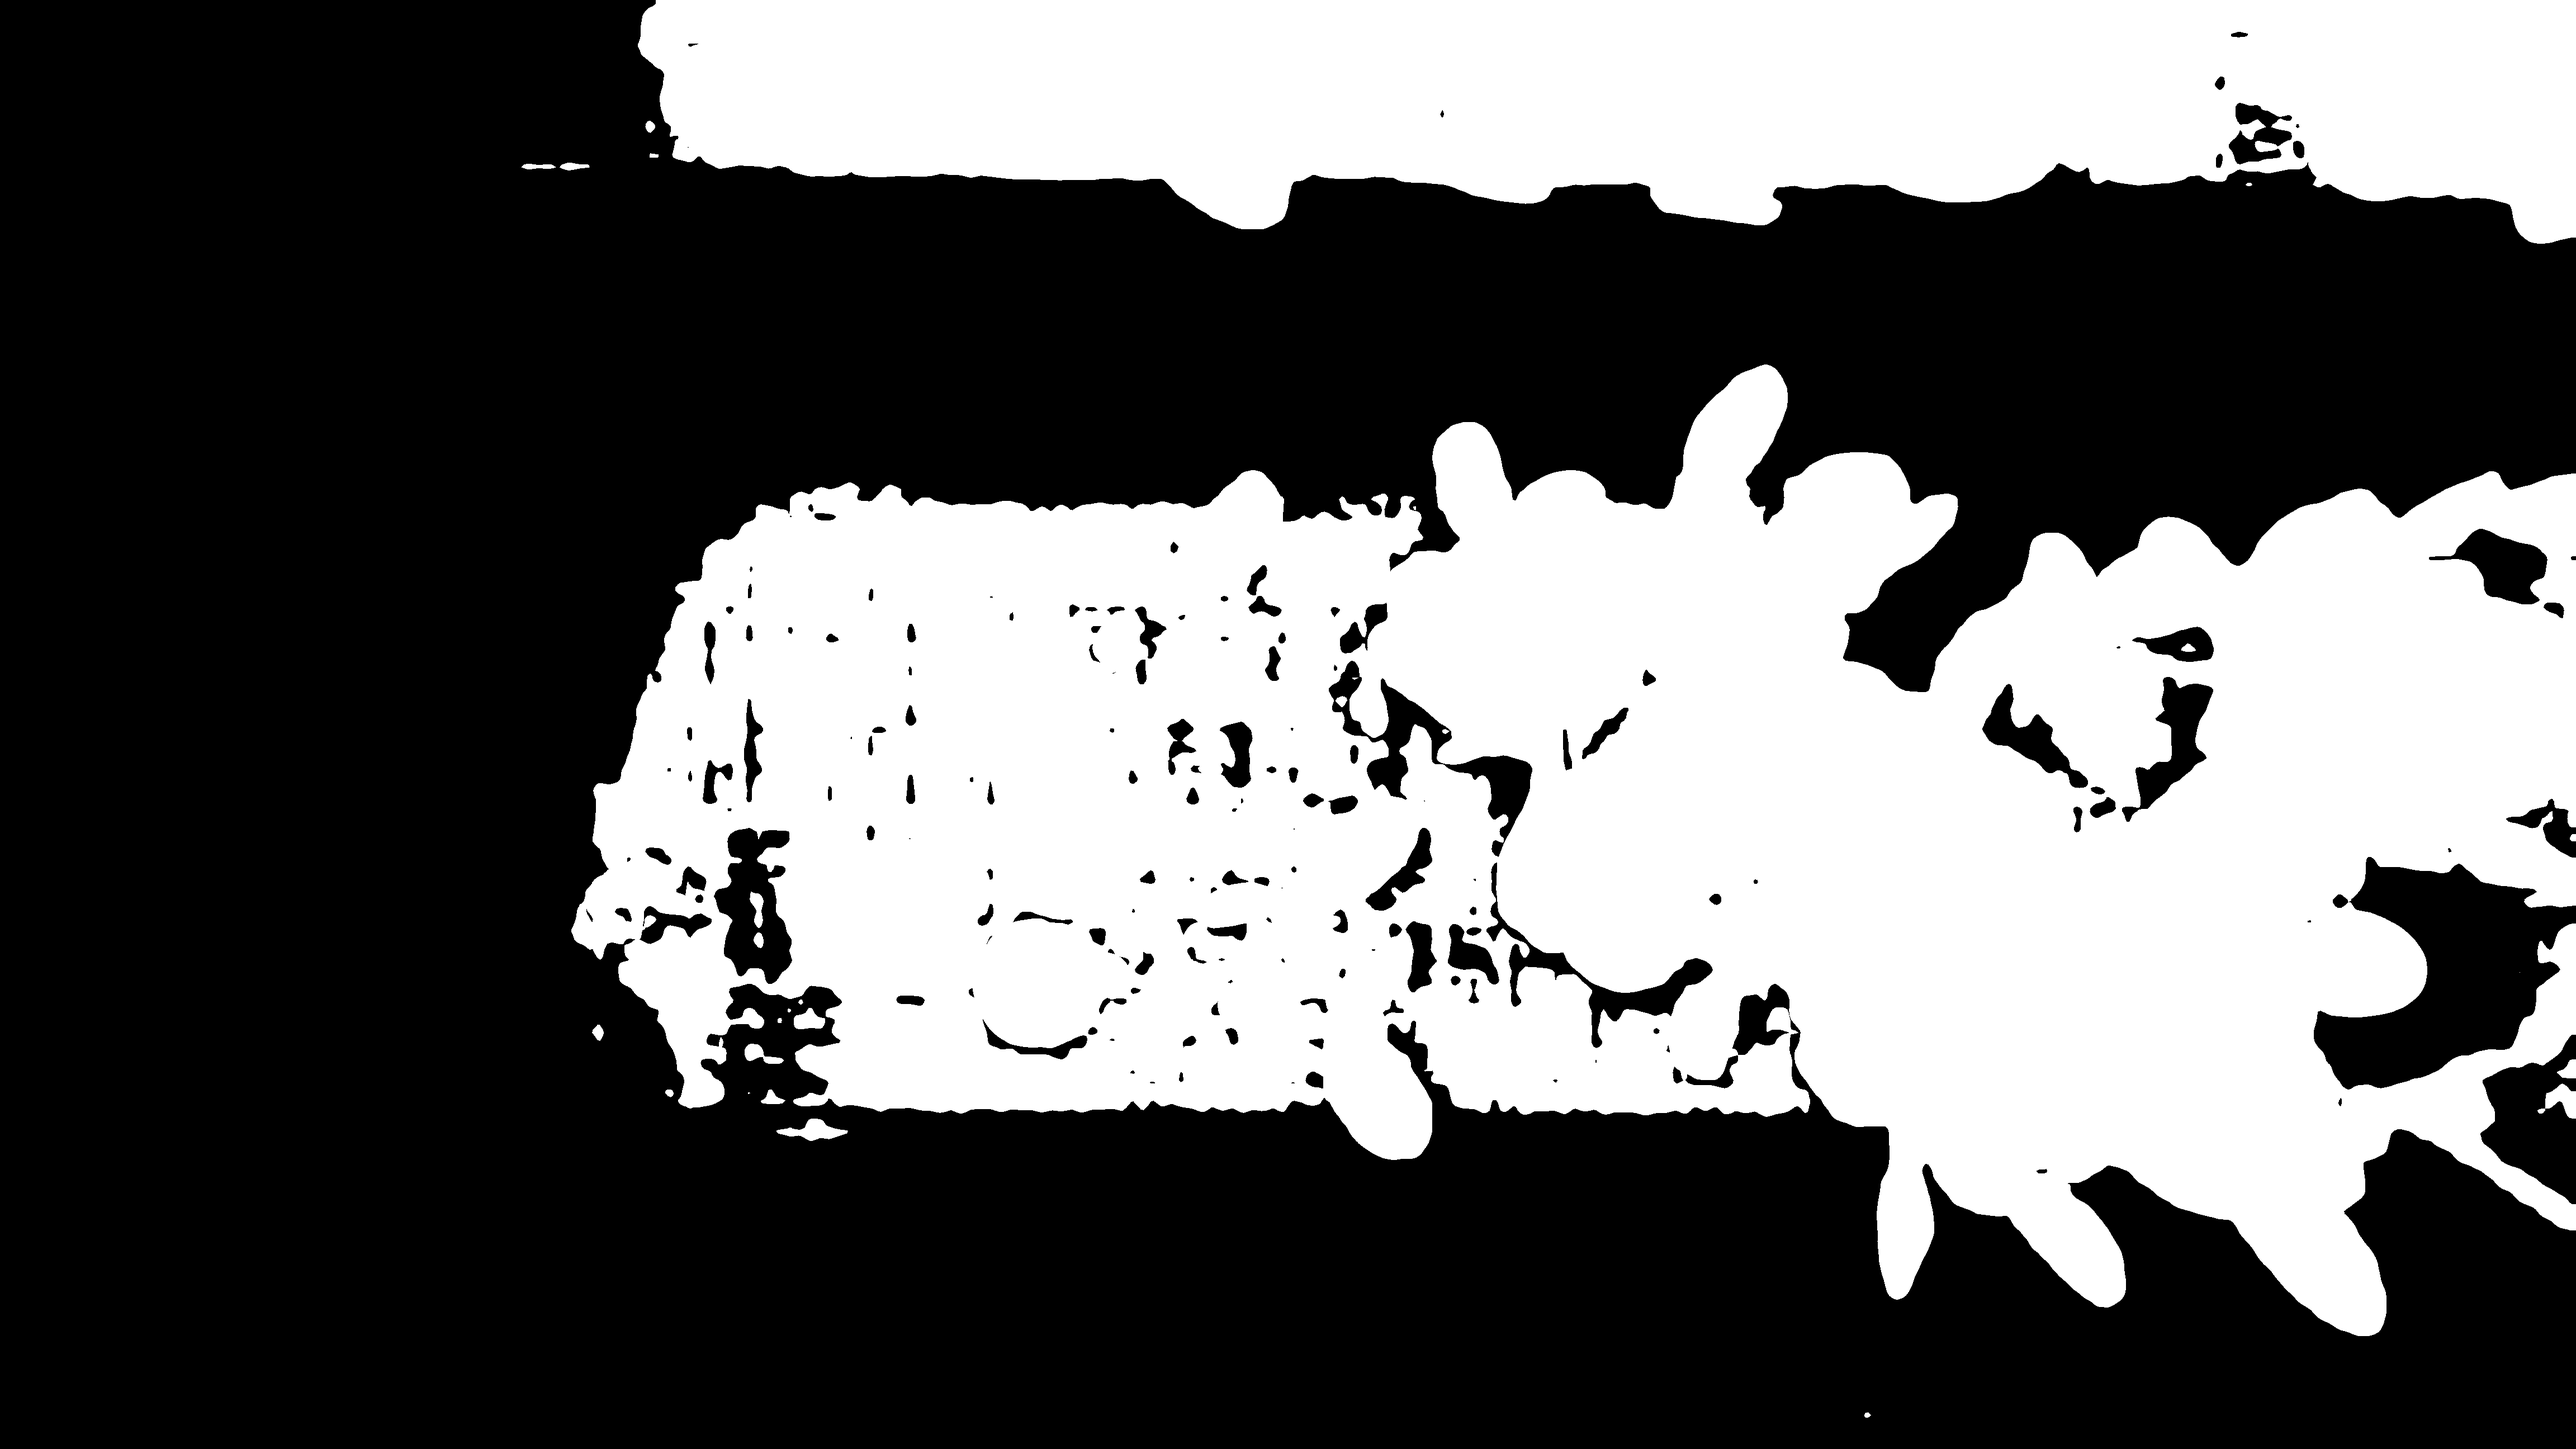
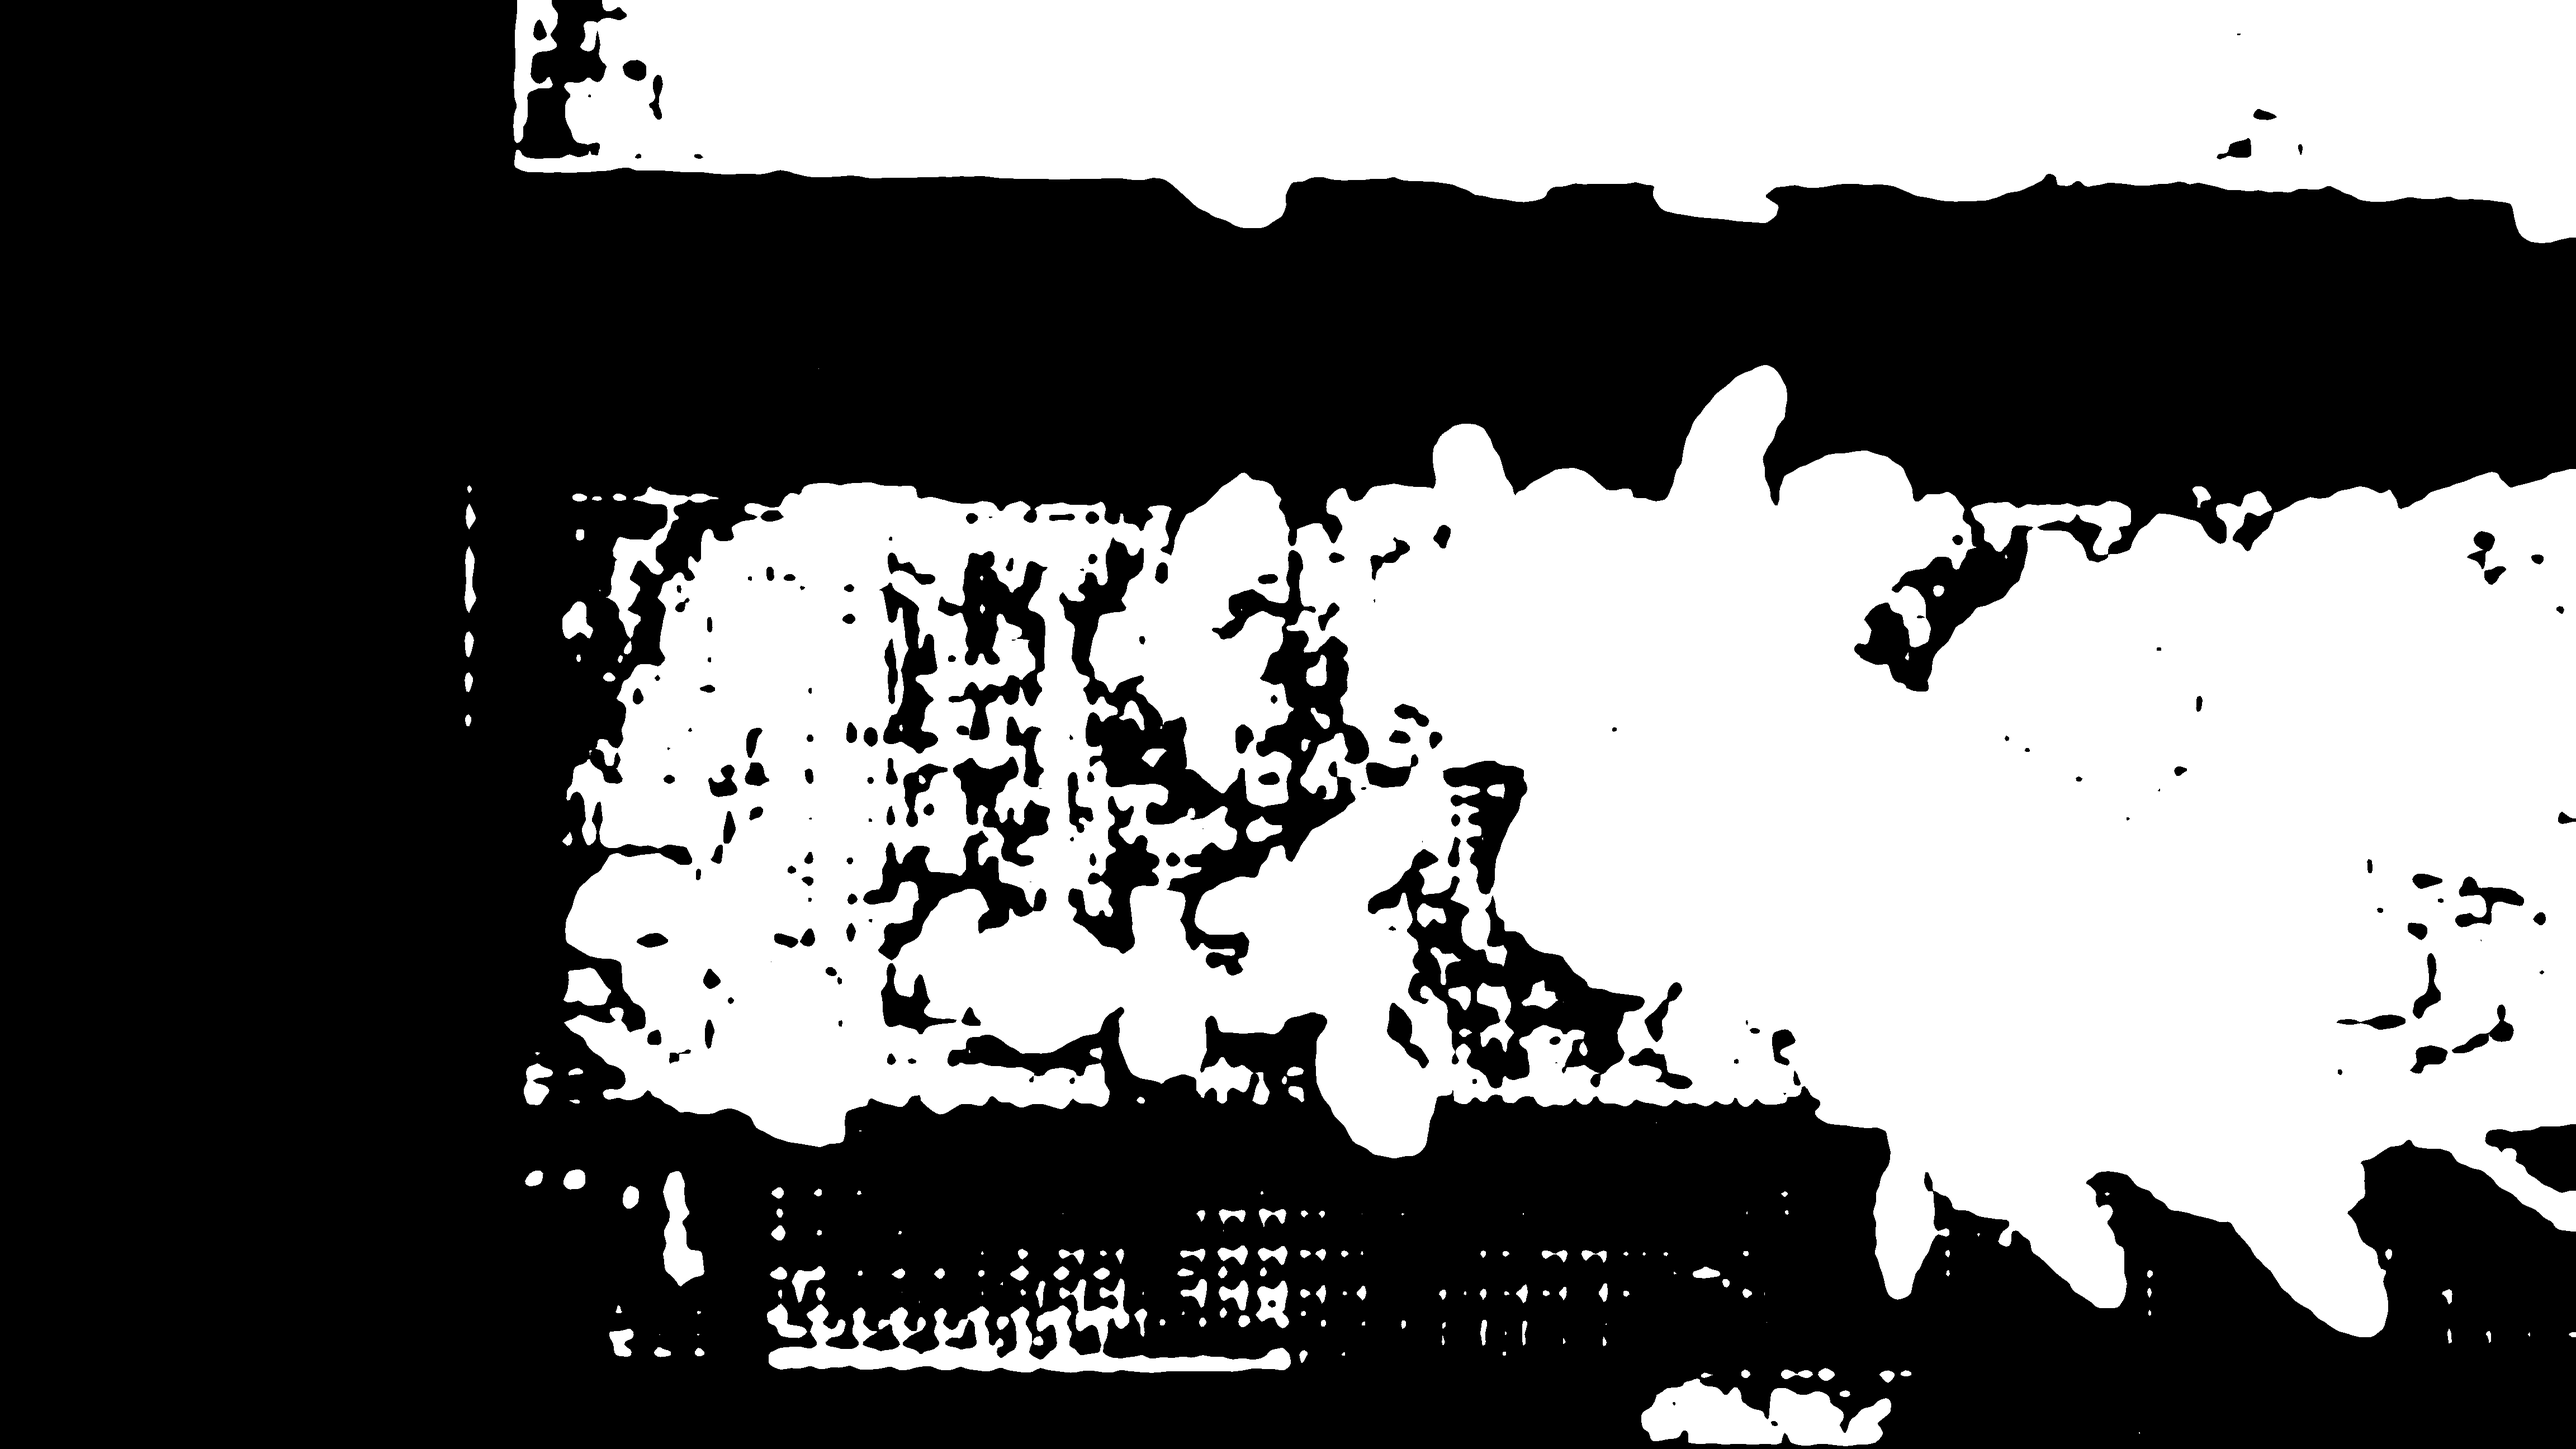
small adjustments, no color palette yet

diff --git a/grounded_sam_hq.py b/grounded_sam_hq.py
@@ -98,11 +98,9 @@ for file in os.listdir(input_dir):
             xyxy=detections.xyxy
         )
 
-        # change color of masks!
-
         box_annotator = sv.BoundingBoxAnnotator()
         label_annotator = sv.LabelAnnotator()
-        mask_annotator = sv.MaskAnnotator()
+        mask_annotator = sv.MaskAnnotator(color=sv.ColorPalette.DEFAULT)
         labels = [
             f"{CLASSES[class_id]} {confidence:0.2f}" 
             for _, _, confidence, class_id, _, _ 

diff --git a/grounded_sam.py b/grounded_sam.py
@@ -100,7 +100,7 @@ for file in os.listdir(input_dir):
 
         box_annotator = sv.BoundingBoxAnnotator()
         label_annotator = sv.LabelAnnotator()
-        mask_annotator = sv.MaskAnnotator()
+        mask_annotator = sv.MaskAnnotator(color=sv.ColorPalette.DEFAULT)
         labels = [
             f"{CLASSES[class_id]} {confidence:0.2f}" 
             for _, _, confidence, class_id, _, _ 
